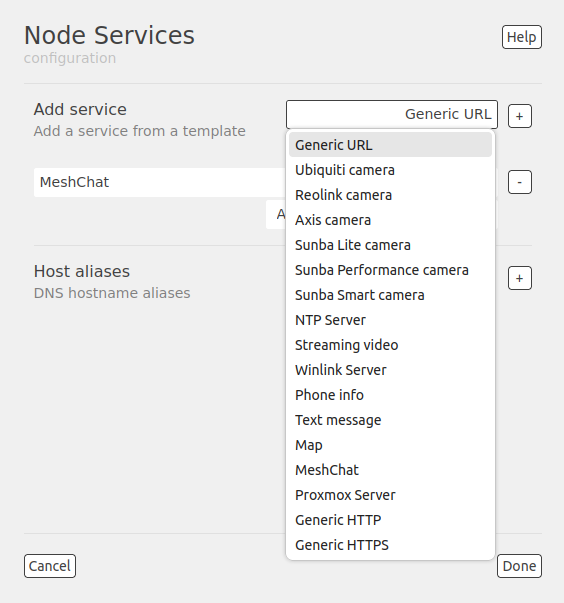
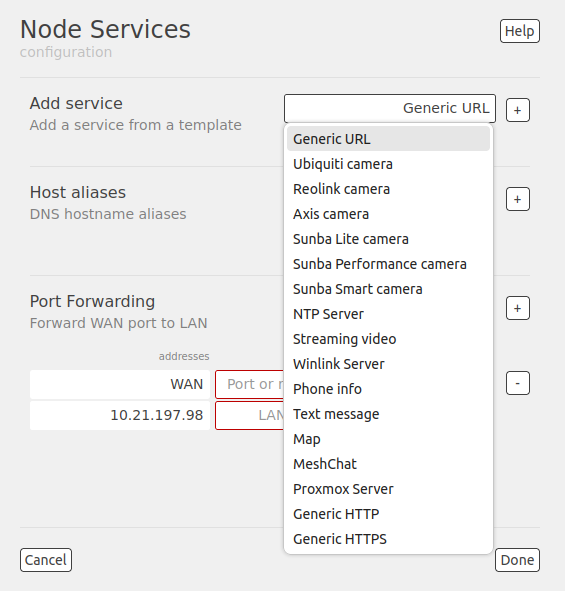
newUI-11

diff --git a/arednGettingStarted/node_admin.rst b/arednGettingStarted/node_admin.rst
@@ -304,6 +304,11 @@ Message Groups
 
 You can click the ``Cancel`` button to ignore any changes you made on this display. When you are finished with your changes, click the ``Done`` button. You will then be returned to your node's *admin* view where you will be able to ``Commit`` or ``Revert`` your changes.
 
+
+DHCP Server ???
+  If you choose to disable the DHCP server, you must manually configure the host IP addresses to be within the LAN network range. There should be only one DHCP server for each IP address scope or range, so you may need to disable your node's DHCP server if there is already another device providing DHCP services on your node's local area network. Click this link for additional information on `Dynamic Host Control Protocol <https://en.wikipedia.org/wiki/Dynamic_Host_Configuration_Protocol>`_.
+
+
 Local Services
 --------------
 
@@ -338,12 +343,38 @@ Viewing, Editing, and Deleting Services
 Managing Host Aliases
   *Host Aliases* provide a way for you to create a hostname alias for a device on your node's LAN. This can be useful if you want a computer or device on your LAN to be identified by something other than its actual hostname. Your Host Alias will be propagated across the network even if the actual hostname has *Do Not Propagate* checked in its DHCP Reservation, allowing you to hide the actual hostname while still advertising the alias on the mesh. Once an alias is defined, it will become available for creating local services (described above).
 
+  .. image:: _images/admin-localsvc-3.png
+   :alt: Admin Local Services Host Aliases
+   :align: center
+
   To create an alias, click the [+] icon on the right and enter an alias name in the first field. The alias should be prefixed with your callsign in order to follow the naming convention used when defining any unique host on the network. Then use the dropdown selector to choose the name or IP Address of the existing host for which you are defining the alias. Once you have entered these values, you can change any of the fields in any of the aliases. If you want to delete an alias, click the [-] icon on the right side of that row.
 
-  You can click the ``Cancel`` button to ignore any changes you made on this display. When you are finished with your changes, click the ``Done`` button. You will then be returned to your node's *admin* view where you will be able to ``Commit`` or ``Revert`` your changes.
+  To delete an alias, click the [-] icon on the right of the existing row for the alias you wish to delete. You can click the ``Cancel`` button to ignore any changes you made on this display. When you are finished with your changes, click the ``Done`` button. You will then be returned to your node's *admin* view where you will be able to ``Commit`` or ``Revert`` your changes.
 
-Neighbor Devices
-----------------
+Port Forwarding
+  There may be situations where your node must act as an intermediary, typically between a client device and a server device on your node's LAN network. More information can be found at this link for `Port Forwarding <https://en.wikipedia.org/wiki/Port_forwarding>`_.
+
+  .. image:: _images/admin-localsvc-4.png
+   :alt: Admin Local Services Port Forwarding
+   :align: center
+
+  To create a port forwarding rule, click the [+] icon on the right. In *Direct* mode port forwarding is only meaningful for WAN-connected nodes, so you will only be allowed to create rules for the WAN interface. For inbound port, enter a single port number or a range of ports separated by the dash character. Click in the *protocol* field to select TCP, UDP, or both. Use the switch on the right to enable or disable this port forwarding rule. On the next row, click in the IP address / hostname field to select from the dropdown list a LAN host to process the requests. In the next field, enter the *port* on that host which is listening for those requests.
+
+  To delete a port forwarding rule, click the [-] icon on the right of the existing row for the rule you wish to delete. You can click the ``Cancel`` button to ignore any changes you made on this display. When you are finished with your changes, click the ``Done`` button. You will then be returned to your node's *admin* view where you will be able to ``Commit`` or ``Revert`` your changes.
+
+Local Devices
+-------------
+
+
+
+Local Nodes
+-----------
+
+
+
+
+Neighborhood Nodes
+------------------
 
 As described in the **Node Status** documentation section, this area shows a list of neighbor devices that are directly connected to your node. In *admin* mode you will see a gray background when hovering over a neighbor node in that list. If you click in the neighbor row while the gray background is visible, the **Neighbor Device** display will appear. Context-sensitive help is available by clicking the ``Help`` button.
 
@@ -464,11 +495,14 @@ The antenna type is provided automatically based on your hardware model. Various
  :alt: Admin Radio Settings 4
  :align: center
 
+Azimuth
+  Click in the field at the right to enter the direction (in degrees) toward which your directional antenna is aimed. This field will not appear if your device uses an omnidirectional antenna.
+
 Height
-  Click in the field at the right to enter a height in meters above ground level where you have your antenna mounted.
+  Click in the field at the right to enter a height in meters above ground level at which you have your antenna mounted.
 
 Elevation
-  Click in the field at the right to enter an angle (in degrees) of uptilt or downtilt that you have set on your antenna.
+  Click in the field at the right to enter an angle (in degrees) of uptilt or downtilt that you have set on your antenna. Note that some omnidirectional antennas have a built-in downtilt, and that value can be entered here.
 
 Advanced Radio Options
 ++++++++++++++++++++++
@@ -526,9 +560,7 @@ You can click the ``Cancel`` button to ignore any changes you made on this displ
 DHCP Settings
 -------------
 
-By default each node runs a :abbr:`DHCP (Dynamic Host Control Protocol)` server to provide client IP addresses for devices joining its LAN network. LAN devices connecting to your node will be assigned an IP address automatically.
-
-Context-sensitive help is available by clicking the ``Help`` button.
+By default each node runs a :abbr:`DHCP (Dynamic Host Control Protocol)` server to provide client IP addresses for devices joining its LAN network. LAN devices connecting to your node will be assigned an IP address automatically. Context-sensitive help is available by clicking the ``Help`` button.
 
 .. image:: _images/admin-dhcp-1.png
  :alt: Admin DHCP Settings
@@ -536,11 +568,59 @@ Context-sensitive help is available by clicking the ``Help`` button.
 
 |
 
+Active Leases
+  Devices which are currently connected to your node's LAN network will be displayed in the table of *Active Leases*. The first field displays the hostname, followed by the IP address that was assigned by your node's DHCP server. The third field displays the device's MAC address.
+
+  Since DHCP leases are dynamic and can change over time, there may be a reason why a host's assigned IP address should be made permanent. This is especially useful if that host will provide an application, program, or service through your node to the mesh network at large. You can reserve that host's DHCP address by clicking the [+] icon at the right of the row. You will see that host now appears in the *Address Reservations* list.
+
+Address Reservations
+  Devices which were added to the *Address Reservations* list will display their hostname, IP address, and MAC address. The hostname of every device connected to the mesh at large should be unique. It is best practice to prefix your Amateur Radio callsign to the hostname of each of your devices in order to give it a unique name on the network.
+
+  There may be some devices on which you are not able to set the hostname, so once you add that device to your *Address Reservations* you can edit the hostname by clicking in the *hostname* field. You may also want to assign a specific IP Address to the device by selecting it from the drop-down list. If you have a device which needs to be reachable on its host node, but which should not be accessed across the mesh network, click the *Do Not Propagate* checkbox to prevent OLSR from propagating that information across the mesh.
+
+Advanced Options
+  By clicking **Advanced Options** you can configure additional settings. This section allows you to specify DHCP option codes and values which are sent to devices on your node's LAN network. In addition to providing an IP address, the DHCP protocol is able to send a large number of options for device configuration. Any LAN client joining the network can request specific DHCP options in addition to its IP address. These *Advanced Options* are especially helpful for configuring and provisioning VoIP phones on your node's LAN.
+
+  The `Internet Assigned Numbers Authority (IANA) <https://www.iana.org/assignments/bootp-dhcp-parameters/bootp-dhcp-parameters.xhtml>`_ is the source for information about all DHCP options. Specific vendor equipment may or may not support all of the options, so you should verify which options are supported by referring to the manufacturer's documentation for your LAN device.
 
 
+  .. image:: _images/admin-dhcp-2.png
+   :alt: Admin DHCP Advanced Options
+   :align: center
 
-If you choose to disable the DHCP server, you must manually configure the host IP addresses to be within the LAN network range. There should be only one DHCP server for each IP address scope or range, so you may need to disable your node's DHCP server if there is already another device providing DHCP services on your node's local area network. Click this link for additional information on `Dynamic Host Control Protocol <https://en.wikipedia.org/wiki/Dynamic_Host_Configuration_Protocol>`_.
+  |
 
+  Tags
+    The tags for advanced DHCP options allow you to define labels for values that will be assigned to clients that match specific values or properties such as Vendor Class or MAC address. Click the [+] icon to add a new tag. Enter a tag label in the first field, then click in the second field to select a tag type from the dropdown list. Finally, enter a text string which will be used to match device's tag type, such as Vendor Class or MAC address. To delete an existing tag, click the [-] at the right side of the row you wish to remove.
+
+  Options
+    The options entries allow you to specify which devices will receive the DHCP options. Click in the first field to select whether you want this option to be sent to [all] clients or only to clients which match a specific tag. Option numbers can be entered directly in the second field or you can select one from the dropdowm list of well-known options. In the third field enter the specific value that will be sent in this option. A checkbox allows you to specify whether or not this option will always be sent.
+
+  To delete a tag or option, click the [-] icon on the right of the existing row for the item you wish to delete. You can click the ``Cancel`` button to ignore any changes you made on this display. When you are finished with your changes, click the ``Done`` button. You will then be returned to your node's *admin* view where you will be able to ``Commit`` or ``Revert`` any changes.
+
+Ethernet Ports and Xlinks
+-------------------------
+
+If you have a supported multiport device, then you will see an *Ethernet Ports and Xlinks* section. This provides a way for you to configure the ports on your multiport node. For more information on the AREDN |trade| VLANs being used, refer to the *VLAN* description in the **Network Settings** section above. Context-sensitive help is available by clicking the ``Help`` button.
+
+
+.. image:: _images/admin-ports-xlinks.png
+  :alt: Admin Ethernet Ports and Xlinks
+  :align: center
+
+|
+
+Ports
+  The *Ports* section at the top shows the available ports and the possible configurations along the left side. A typical configuration is as follows:
+
+  - The first port is configured as a WAN port. The data entry field to the right of the *vlan* label can contain any valid vlan identifier if it is required, typically in the range between 1 and 4094. The default for these multiport devices is no vlan (untagged), so leave the default unless there is a specific reason why it is required in your situation.
+  - The middle ports are configured as LAN ports with no vlan (untagged).
+  - The last port is configured for DtD linking to another AREDN |trade| node using vlan2 (tagged).
+
+  If you want to change a port's configuration, simply check or uncheck the settings desired on each port.
+
+Xlinks
+  A cross-link allows your node to pass AREDN |trade| traffic across non-AREDN |trade| point-to-point links. To add a cross-link click the [+] icon, enter an unused VLAN number for the link, the IP address of the near-side device, the IP address of the far-side device, a weighting factor, and the port to which the near-side device is connected on your node. The *Weight* will be used by `OLSR <https://en.wikipedia.org/wiki/Optimized_Link_State_Routing_Protocol>`_ to determine the best route for AREDN |trade| traffic. If you want to remove a cross-link, simply click the [-] icon on the right side of the row to remove it.
 
 You can click the ``Cancel`` button to ignore any changes you made on this display. When you are finished with your changes, click the ``Done`` button. You will then be returned to your node's *admin* view where you will be able to ``Commit`` or ``Revert`` any changes.
 
@@ -565,7 +645,6 @@ Support Data
 Port Forwarding, DHCP, Services, and DNS Aliases
 ------------------------------------------------
 
-Click the **Port Forwarding, DHCP, and Services** link to navigate to these settings. This provides a way for you to configure LAN network address reservations and service advertisements on your node. The page works differently based on the LAN Mode (Direct or NAT) that you are using on your node.
 
 Direct Mode Operation
 +++++++++++++++++++++
@@ -581,11 +660,7 @@ In ``Direct`` mode the LAN hosts are directly accessible from the mesh since no 
 DHCP Address Reservations
   If your node has its DHCP server enabled, it will automatically provide IP addresses to connected hosts. Look under the **Current DHCP Leases** heading to see the existing hosts and their assigned IP addresses.
 
-  .. attention:: The hostnames of every device connected to the mesh at large must be unique. It is best practice to prefix your Amateur Radio callsign to the hostname of each of your devices in order to have the best chance of it being unique on the mesh network.
 
-  Since DHCP leases are dynamic and can change over time, there may be a reason why a host's assigned IP address should be made permanent. This is especially useful if that host will provide an application, program, or service through your node to the mesh network at large. You can permanently reserve that host's DHCP address by clicking the *Add* button at the right of the row in the *Current DHCP Leases* list. You will see that host now appears in the list under the **DHCP Address Reservations** heading above the list of leases.
-
-  There may be some devices on which you are not able to set the hostname prefixed by your callsign. Once you add that device to your **DHCP Address Reservations**, however, click the *Hostname* box to edit the hostname what will be propagated across the mesh network by your node. You may also want to assign a specific IP Address to the device by selecting it from the drop-down list. If you have a device which needs to be reachable on its host node, but which should not be accessed across the mesh network, click the *Do Not Propagate* checkbox to prevent OLSR from propagating that information to the mesh.
 
   Once you have entered the values for your DHCP Reservation, click *Add* to add it to the list. You may also remove an existing reservation by clicking the *Del* button to delete it from the list. Click the **Save Changes** button to write your changes to the node's configuration.
 
@@ -602,30 +677,6 @@ Advertised Services
 
     The node's *Advertised Services* list will still show the defined service (with an alert icon and hover text marking it as non-advertised), but your node will not actually *advertise* that service to the network. If the service URL becomes reachable in the future or if the dependent package is later installed, then your node will resume advertising the service across the network.
 
-Port Forwarding
-  In Direct mode you will only be allowed to select the WAN interface so Port Forwarding is only meaningful for WAN-connected nodes. Enter the Outside Port being passed to your node from its upstream gateway, select a LAN host to process the requests, and enter the LAN Port on that host which is listening for those requests. Finally, click *Add* to add the port forwarding rule. You may also remove an existing rule by clicking the *Del* button to delete it from the list. Click the **Save Changes** button to write your port forwarding changes to the node's configuration. More information can be found at this link for `Port Forwarding <https://en.wikipedia.org/wiki/Port_forwarding>`_.
-
-DNS Aliases
-  **DNS Aliases**
-
-Advanced DHCP Options
-+++++++++++++++++++++
-
-.. image:: _images/dhcp-options.png
-   :alt: Ports - Advanced DHCP Options
-   :align: center
-
-The **Advanced DHCP Options** section allows you to specify option codes and values which are sent to devices on your node's LAN network at boot time. This provides an easy way to configure network clients during their boot process. In addition to providing an IP address, the DHCP protocol is able to send a large number of options for device configuration. Any LAN client device joining the network can request specific DHCP options in addition to its IP address. These *Advanced DHCP Options* are especially helpful for configuring and provisioning VoIP phones on your node's LAN.
-
-The `Internet Assigned Numbers Authority (IANA) <https://www.iana.org/assignments/bootp-dhcp-parameters/bootp-dhcp-parameters.xhtml>`_ is the source for information about all DHCP options. Specific vendor equipment may or may not support all of the options, so you can verify which options are supported by referring to the manufacturer's documentation for your LAN device.
-
-Tags for Advanced DHCP Options
-  The *Tags for Advanced DHCP Options* table allows the administrator to define DHCP tags that will be assigned to clients which are identified by specific values or properties such as Vendor Class or MAC address.
-
-Advanced DHCP Options
-  The *Advanced DHCP Options* table allows the administrator to specify DHCP options that will be sent to any client, or only to clients matching a specific tag. Option numbers can be entered directly or chosen from a list of well-known options. Option values are manually entered in the "with Value" field on each row.
-
-Field data validation is implemented for any input field with easily recognizable content such as host name, MAC address, port and option numbers. Placeholders are also supplied for input fields that might otherwise be difficult to describe (such as MAC addresses) using wildcard matching. Once the appropriate values are entered, click the *Add* button to include the settings which were defined. You may also delete a row by clicking the *Del* button for that row. After you have added, changed, or deleted your Advanced DHCP Options, click the *Save Changes* button at the top of the page.
 
 NAT Mode Operation
 ++++++++++++++++++
@@ -739,28 +790,7 @@ To allow your client to connect to the tunnel server, select the *Enabled* check
 Advanced Network
 ----------------
 
-If you have a supported multiport device (currently *Mikrotik ac2*, or *ac3* only), then you will see a menu option for **Advanced Network**. This provides a way for you to configure the ports on your multiport node. For more information on the AREDN |trade| VLANs being used, refer to the *Node VLANs* description in the **Basic Setup** section above.
 
-
-.. image:: _images/advnet.png
-  :alt: Advanced Networking
-  :align: center
-
-|
-
-Ports
-  The **Ports** section shows the available ports across the top and the possible configurations along the left side. The default configuration is as follows:
-
-  - The first port is configured as a WAN port. The data entry field to the right of the *vlan* label can contain any valid vlan identifier if it is required, typically in the range between 1 and 4094. The default for these multiport devices is no vlan (untagged), so leave the default unless there is a specific reason why it is required in your situation.
-  - The middle ports are configured as LAN ports with no vlan (untagged).
-  - The last port is configured for DtD linking to another AREDN |trade| node with vlan2 (tagged).
-
-  You should only have one box checked for each port. If you want to change a port's configuration, simply uncheck the existing box and check the box for the new setting on that port.
-
-Xlinks
-  A cross-link allows your node to pass AREDN |trade| traffic across non-AREDN |trade| point-to-point RF links. To add a cross-link click the *plus* icon, enter an unused VLAN number for the link, the IP address of the near-side radio, the IP address of the far-side radio, a weighting factor, and the port to which the near-side radio is connected on your node. The *Weight* will be used by `OLSR <https://en.wikipedia.org/wiki/Optimized_Link_State_Routing_Protocol>`_ to determine the best route for AREDN |trade| traffic. If you want to remove a cross-link, simply click the *minus* icon on the right side of the row to remove.
-
-When you have finished making configuration changes to the ports and cross-links, click the *Save Changes* button. You will be notified if a reboot is required to activate your changes, and you can then click the *Reboot* button.
 
 
 
